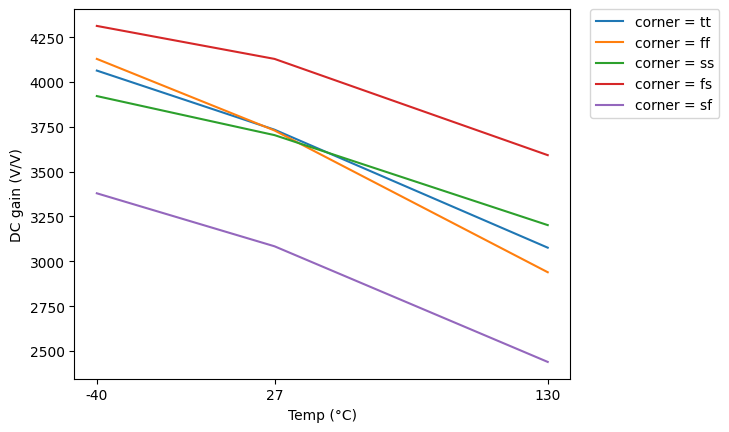
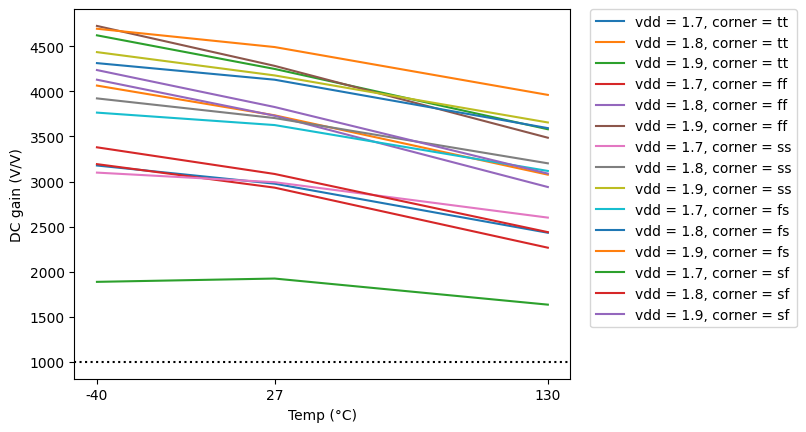
Vdd variations added to CACE

diff --git a/docs/sky130_op_amp_rcx.md b/docs/sky130_op_amp_rcx.md
@@ -5,9 +5,9 @@
 
 |      Parameter       |         Tool         |     Result      | Min Limit  |  Min Value   | Typ Target |  Typ Value   | Max Limit  |  Max Value   |  Status  |
 | :------------------- | :------------------- | :-------------- | ---------: | -----------: | ---------: | -----------: | ---------: | -----------: | :------: |
-| DC gain              | ngspice              | a0                   |        1000 V/V | 2438.830 V/V |          any | 3703.750 V/V |          any | 4312.820 V/V |   Pass ✅    |
-| Unity Gain Frequency | ngspice              | ugf                  |          1e6 Hz | 7525090.000 Hz |          any | 11571900.000 Hz |          any | 16703300.000 Hz |   Pass ✅    |
-| Phase Margin         | ngspice              | pm                   |            60 ° |   74.963 ° |          any |   80.121 ° |          any |   82.508 ° |   Pass ✅    |
+| DC gain              | ngspice              | a0                   |        1000 V/V | 1635.030 V/V |          any | 3592.070 V/V |          any | 4725.170 V/V |   Pass ✅    |
+| Unity Gain Frequency | ngspice              | ugf                  |          1e6 Hz | 7302760.000 Hz |          any | 11555800.000 Hz |          any | 17020100.000 Hz |   Pass ✅    |
+| Phase Margin         | ngspice              | pm                   |            60 ° |   74.486 ° |          any |   80.121 ° |          any |   82.978 ° |   Pass ✅    |
 | Area                 | magic_area           | area                 |                |           |             |           |     9600 µm² | 6689.038 µm² |   Pass ✅    |
 | Width                | magic_area           | width                |                |           |             |           |          any |  88.275 µm |   Pass ✅    |
 | Height               | magic_area           | height               |                |           |             |           |          any |  75.775 µm |   Pass ✅    |
